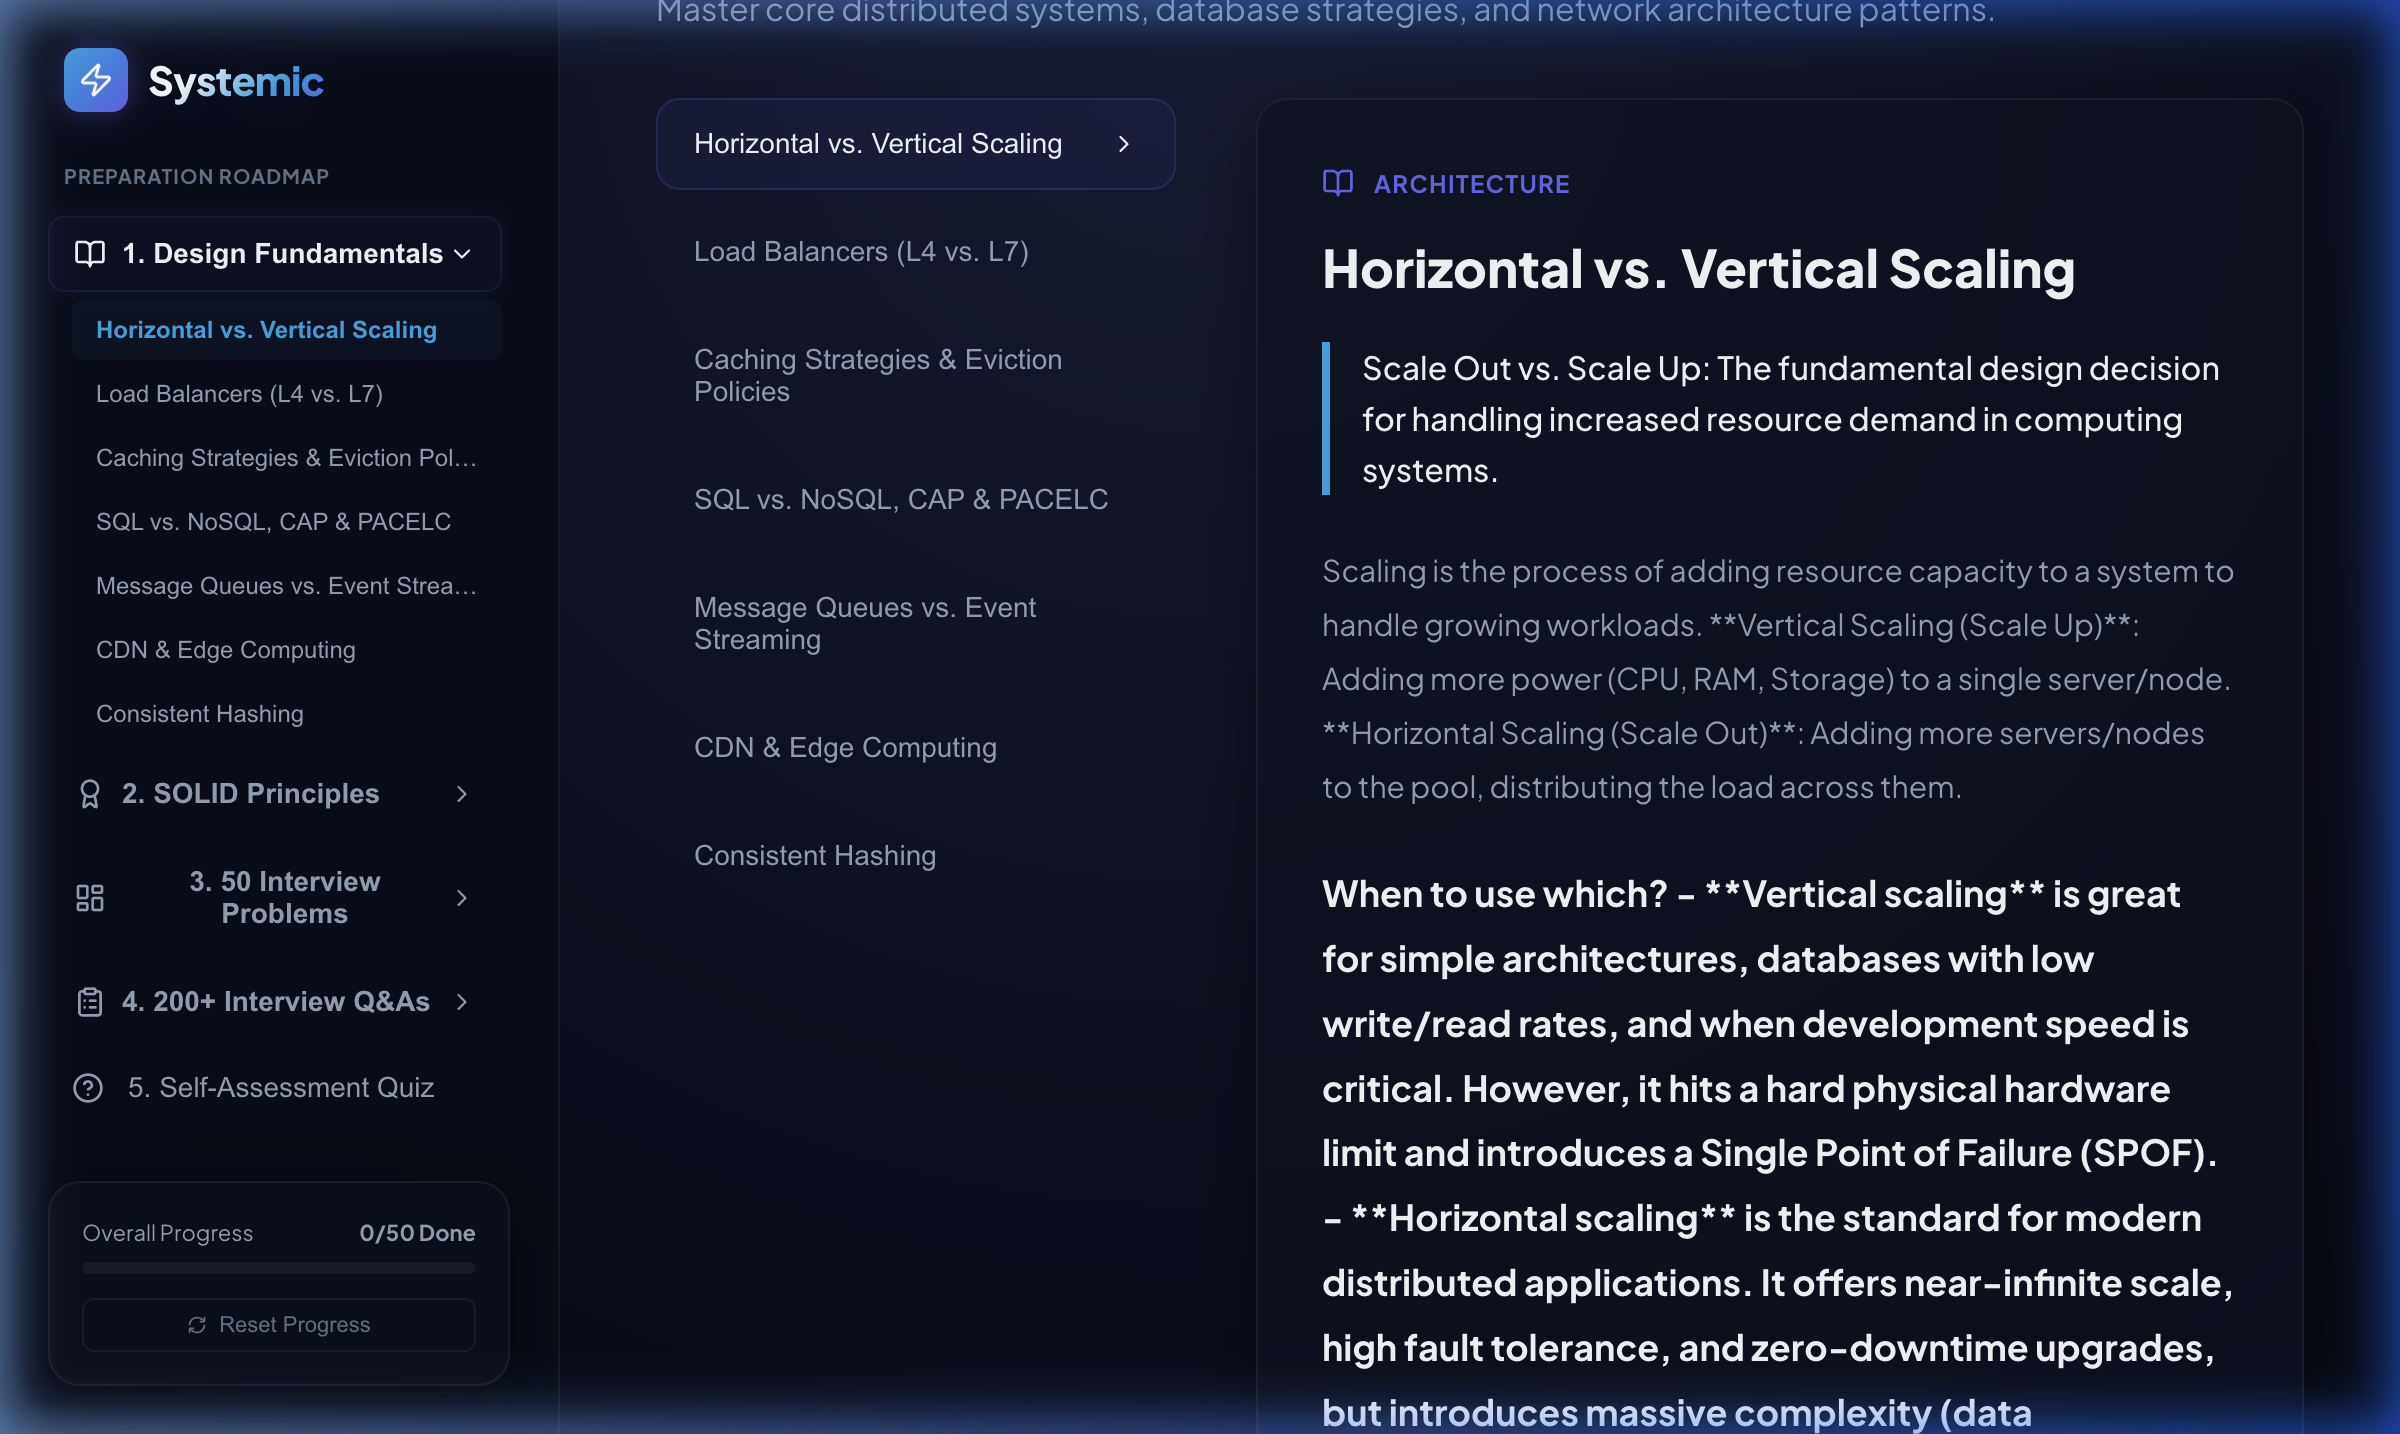
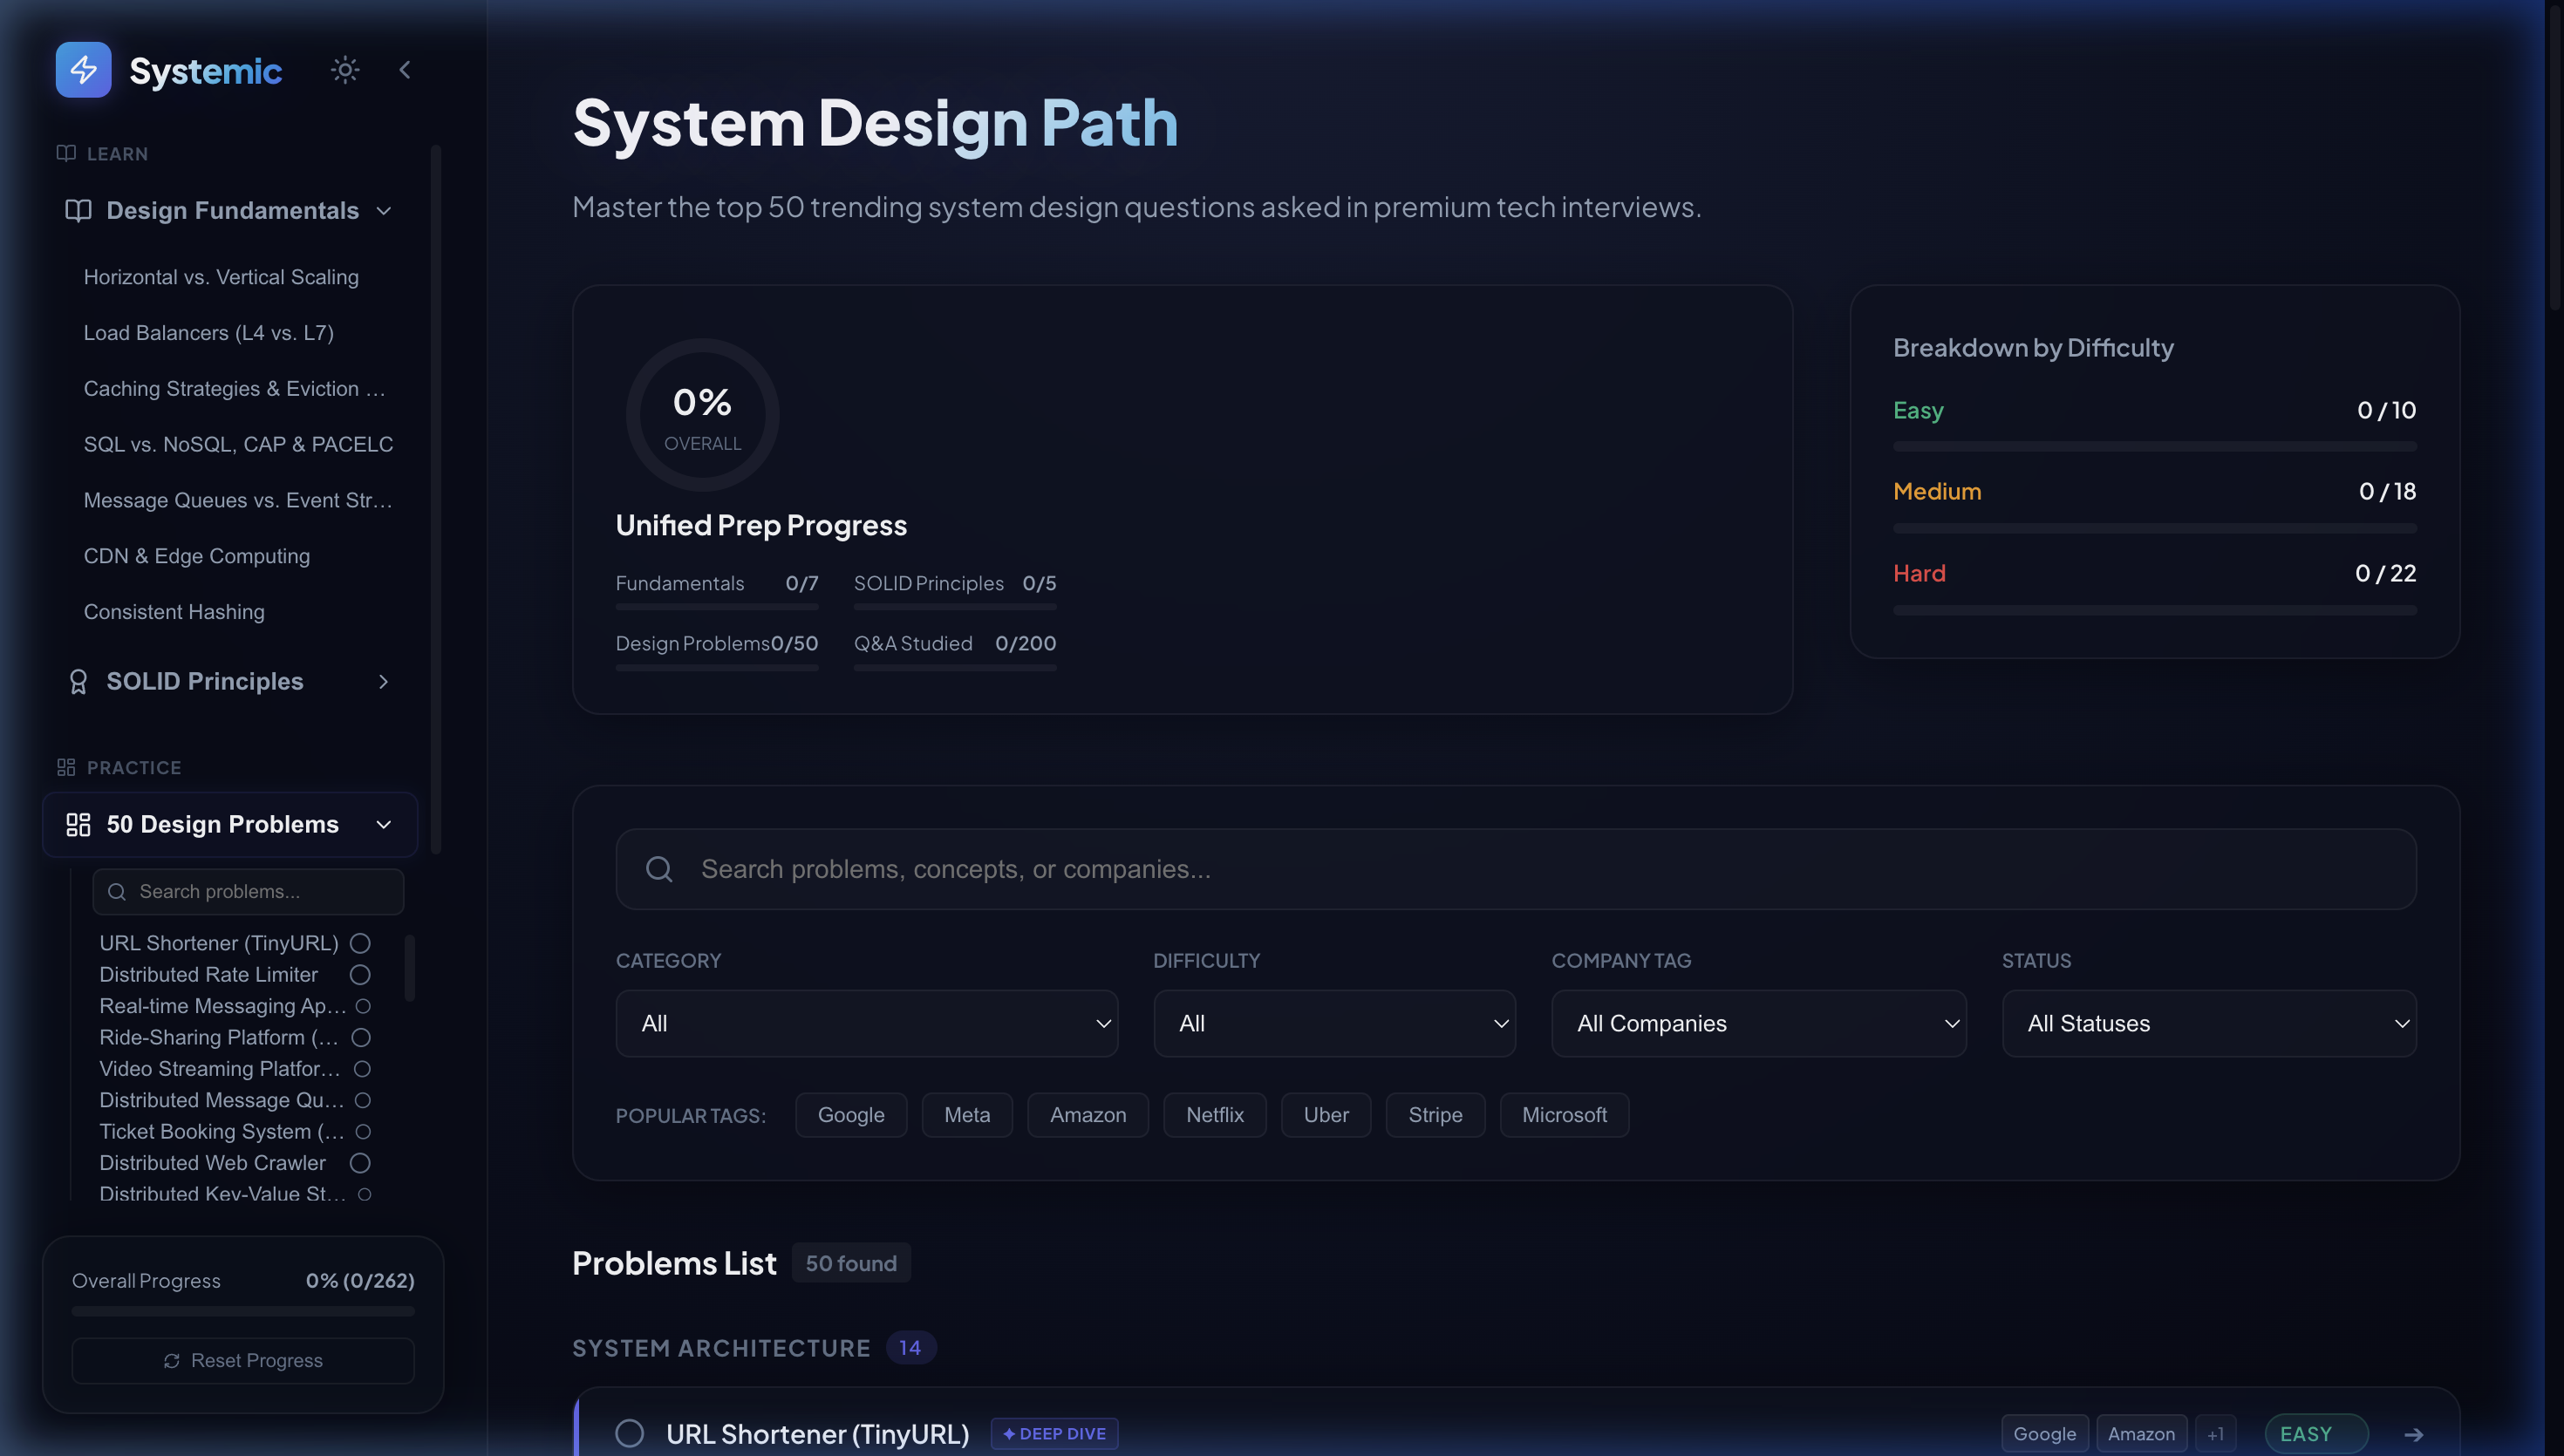
docs: update README.md, screenshots, and walkthrough demo for the grouped problems views and LLD details

diff --git a/README.md b/README.md
@@ -6,7 +6,7 @@ Systemic is a premium, feature-rich interactive web application designed to serv
 
 ## 🖥️ Platform Demonstration
 
-Below is a live walkthrough demonstrating the interactive sidebar, problem-solving flows, and the real-time capacity calculator:
+Below is a live walkthrough demonstrating the interactive sidebar category tree, high-density problems list, detailed LLD views, and the capacity calculator:
 
 ![Systemic Walkthrough](docs/images/demo.webp)
 
@@ -14,31 +14,44 @@ Below is a live walkthrough demonstrating the interactive sidebar, problem-solvi
 
 ## ✨ Key Features
 
-### 1. Collapsible Sidebar & Mobile Friendly Layout
-- **Desktop Sidebar**: Toggle between a fully expanded details view (280px) and a collapsed icon-only navigation bar (76px) to maximize your diagramming and code workspace.
-- **Mobile Responsive overlays**: The application scales down to mobile widths, providing a sliding drawer navigation menu powered by a top hamburger icon button. Grids automatically scale to single column layouts.
-- **Visual Progress Ring & Reset**: Live LocalStorage progress tracking showing total completed status indicators.
+### 1. Collapsible Categorized Sidebar & Navigation Tree
+- **Desktop Sidebar**: Toggle between a fully expanded details view (280px) and a collapsed icon-only navigation bar (76px) to maximize your workspace.
+- **Categorized Problem Tree**: Problems are neatly grouped by engineering domains (e.g. *System Architecture*, *Distributed Systems*, *Low-Level Design*). Toggle headers collapse/expand categories dynamically.
+- **Inline Status & Difficulty Tags**: Track completion status directly from the sidebar checklist. Each item highlights its difficulty (`E` for Easy, `M` for Medium, `H` for Hard) in color-coded pills.
+- **Mobile Responsive Drawer**: Sliding overlay drawer on mobile viewports triggered by a hamburger header.
 
-### 2. Last-Minute Revision Notes
+### 2. High-Density Problems Catalog
+- **Categorized Dashboard Catalog**: Problems list is grouped dynamically by category, eliminating layout congestion.
+- **Row-Based Problem Items**: Shows name, completion checkbox, company tags slice, difficulty tag, and `✦ Deep Dive` vs `📝 Summary` badge in a neat 50px row.
+- **Unified Progress Tracking**: Displays a centralized prep progress meter tracking Fundamentals studied, SOLID principles checked, Problems completed, and Q&As reviewed.
+
+### 3. Fleshed-Out Low-Level Design (LLD) Problems
+Fully detailed, production-ready interactive OOP implementations for highly asked LLD questions:
+- **Parking Lot System**: Supports multiple vehicle kinds, pre-bucketed free lists for O(1) spot allocation, fine-grained locking, O(1) unpark plate map, and Singleton pattern.
+- **Vending Machine System**: State design pattern controller executing Idle, Selected, HasMoney, and Dispensing transitions.
+- **Elevator Dispatch System**: Group controller utilizing the SCAN scheduling algorithm with separate up/down sets, and nearest-compatible dispatcher scheduling.
+- **Multi-Language Solutions**: Every detailed problem includes complete runnable models in **TypeScript**, **Python**, **Java**, **Go**, and **C++**.
+
+### 4. Last-Minute Revision Notes
 High-impact cheatsheets summarizing core content:
-- **2-Hour Checklist**: Key mental models and checklists before walking into the interview loop (Scope, checklist, talk aloud).
+- **2-Hour Checklist**: Key mental models and checklists before walking into the interview loop.
 - **Scale Rules of Thumb**: App server throughput thresholds, database limits, and QPS estimations quick charts.
 - **Key Trade-offs Cheat Sheet**: Relational vs. NoSQL, WebSockets vs. SSE, and Pull vs. Push.
 
-### 3. Interactive Prep Sandbox
+### 5. Interactive Prep Sandbox
 - **FAANG Scorecard**: A self-assessment tool based on actual FAANG grading rubrics. Adjust sliders to evaluate your design and communication performance to check your hiring verdict.
 - **Interactive Practice Checklist**: A structured 45-minute whiteboard simulator. Start/pause the built-in countdown timer and check off required design phases (Requirements, Estimations, API, ERD, HLD, LLD, Tradeoffs).
 - **Systems Glossary**: A searchable distributed systems dictionary with definitions for Gossip Protocol, Split-Brain, and Quorums.
 - **Company Study Paths**: Specific problem paths tracked for Google, Meta, Uber, Netflix, and Amazon.
 
-### 4. Back-of-the-Envelope Capacity Estimator
+### 6. Back-of-the-Envelope Capacity Estimator
 An interactive calculator where candidates can input system parameters (e.g. DAU, request frequency, write ratio, payload size, retention period) and instantly calculate:
 - **Read & Write QPS** (Average & Peak).
 - **Storage Sizing** (Daily, Yearly, and total retention).
 - **Network Bandwidth** (Upload/Download in Mbps/Gbps).
 - **Cache Memory Sizing** (using Pareto 80/20 rule).
 
-### 5. Latency Numbers Comparator & Logarithmic Timeline
+### 7. Latency Numbers Comparator & Logarithmic Timeline
 An interactive grid of Jeff Dean's famous numbers every programmer should know, complete with:
 - **Logarithmic Timeline Bar**: Visually see operation speeds (L1 cache vs. Disk seek) on a colored logarithmic bar chart.
 - **Comparison Sandbox**: Select two operations to compute relative scaling and human-time analogies (e.g. disk seek is 20M times slower than L1 cache, equivalent to 231 days if L1 lookup was 1 second).
@@ -48,12 +61,24 @@ An interactive grid of Jeff Dean's famous numbers every programmer should know, 
 ## 📸 Application Screenshots
 
 ### Premium Main Dashboard
-A clean glassmorphic UI tracking progress across all 50 system design problems:
+A clean glassmorphic UI tracking grouped progress across all 50 system design problems:
 ![Dashboard](docs/images/dashboard.png)
 
-### Collapsible Sidebar (Collapsed State)
-Maximize your workspace with a neat icon-only toolbar:
-![Collapsed Sidebar](docs/images/sidebar_collapsed.png)
+### Grouped Problems Sidebar
+Sleek collapsible categories list with difficulty and completion state indicators:
+![Grouped Problems Sidebar](docs/images/sidebar_problems_list.png)
+
+### Parking Lot LLD Detail View
+Complete class layouts, APIs, and multi-language codes:
+![Parking Lot LLD Detail](docs/images/parking_lot.png)
+
+### Vending Machine LLD State View
+Detailed FSM transitions and design patterns:
+![Vending Machine LLD State](docs/images/vending_machine.png)
+
+### Elevator Dispatch LLD SCAN View
+Optimal elevator selection strategy and SCAN step simulations:
+![Elevator Dispatch LLD SCAN](docs/images/elevator_system.png)
 
 ### Last-Minute Revision Notes
 Quickly review and check off core conceptual summaries:
@@ -61,7 +86,7 @@ Quickly review and check off core conceptual summaries:
 
 ### Whiteboard Timer & Practice Checklist
 Time-slice your mock practice sessions:
-![ Whiteboard Timer](docs/images/timer.png)
+![Whiteboard Timer](docs/images/timer.png)
 
 ### FAANG Grading Scorecard
 Self-evaluate your design and communication loop: